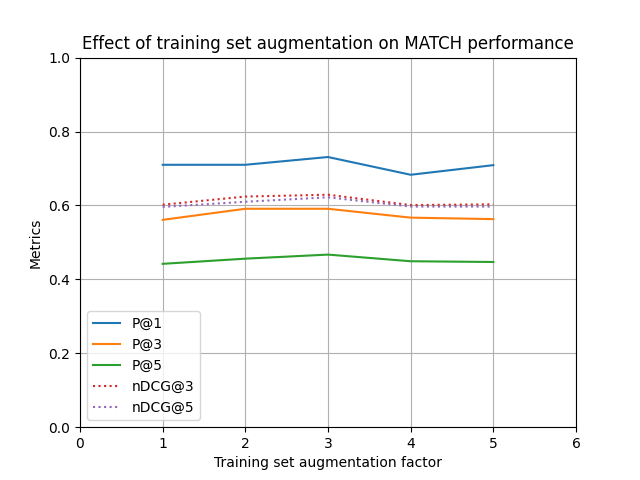
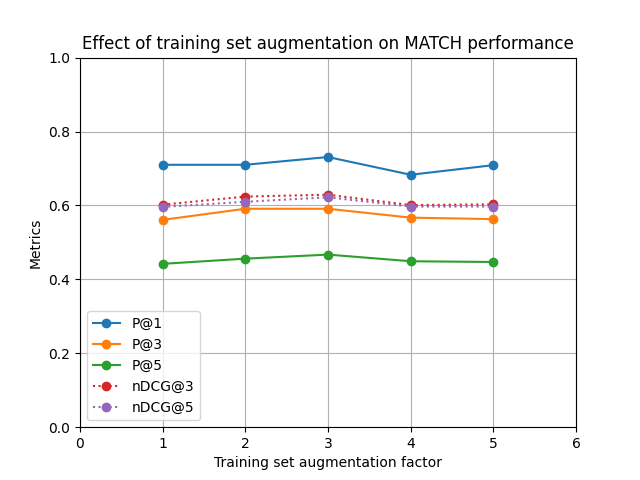
modify plots

diff --git a/auto-labeler/MATCH/analysis/perf_plots.py b/auto-labeler/MATCH/analysis/perf_plots.py
@@ -83,11 +83,11 @@ def main(results_path, plots_path, verbose):
 
     plt.grid()
     plt.title(f'Effect of training set size on MATCH performance')
-    plt.plot(size, p1, linestyle='-', label='P@1')
-    plt.plot(size, p3, linestyle='-', label='P@3')
-    plt.plot(size, p5, linestyle='-', label='P@5')
-    plt.plot(size, n3, linestyle=':', label='nDCG@3')
-    plt.plot(size, n5, linestyle=':', label='nDCG@5')
+    plt.plot(size, p1, linestyle='-', marker='o', label='P@1')
+    plt.plot(size, p3, linestyle='-', marker='o', label='P@3')
+    plt.plot(size, p5, linestyle='-', marker='o', label='P@5')
+    plt.plot(size, n3, linestyle=':', marker='o', label='nDCG@3')
+    plt.plot(size, n5, linestyle=':', marker='o', label='nDCG@5')
     plt.xlabel('Training set size')
     plt.xlim(0, 1004)
     plt.ylabel('Metrics')
@@ -115,11 +115,11 @@ def main(results_path, plots_path, verbose):
 
     plt.grid()
     plt.title(f'Effect of training batch size on MATCH performance')
-    plt.plot(size, p1, linestyle='-', label='P@1')
-    plt.plot(size, p3, linestyle='-', label='P@3')
-    plt.plot(size, p5, linestyle='-', label='P@5')
-    plt.plot(size, n3, linestyle=':', label='nDCG@3')
-    plt.plot(size, n5, linestyle=':', label='nDCG@5')
+    plt.plot(size, p1, linestyle='-', marker='o', label='P@1')
+    plt.plot(size, p3, linestyle='-', marker='o', label='P@3')
+    plt.plot(size, p5, linestyle='-', marker='o', label='P@5')
+    plt.plot(size, n3, linestyle=':', marker='o', label='nDCG@3')
+    plt.plot(size, n5, linestyle=':', marker='o', label='nDCG@5')
     plt.xlabel('Training batch size')
     plt.xlim(1, 1024)
     plt.xticks(size)
@@ -149,11 +149,11 @@ def main(results_path, plots_path, verbose):
 
     plt.grid()
     plt.title(f'Effect of training set augmentation on MATCH performance')
-    plt.plot(aug_factors, p1, linestyle='-', label='P@1')
-    plt.plot(aug_factors, p3, linestyle='-', label='P@3')
-    plt.plot(aug_factors, p5, linestyle='-', label='P@5')
-    plt.plot(aug_factors, n3, linestyle=':', label='nDCG@3')
-    plt.plot(aug_factors, n5, linestyle=':', label='nDCG@5')
+    plt.plot(aug_factors, p1, linestyle='-', marker='o', label='P@1')
+    plt.plot(aug_factors, p3, linestyle='-', marker='o', label='P@3')
+    plt.plot(aug_factors, p5, linestyle='-', marker='o', label='P@5')
+    plt.plot(aug_factors, n3, linestyle=':', marker='o', label='nDCG@3')
+    plt.plot(aug_factors, n5, linestyle=':', marker='o', label='nDCG@5')
     plt.xlabel('Training set augmentation factor')
     plt.xlim(0, 6)
     plt.ylabel('Metrics')
@@ -178,7 +178,7 @@ def main(results_path, plots_path, verbose):
 
     plt.grid(axis='y')
     plt.title(f'Effect of removing metadata separately on MATCH performance')
-    plt.bar(opts, p1, linestyle='-', label='P@1')  
+    plt.bar(opts, p1, label='P@1')  
     plt.xlabel('Train set options')
     plt.ylabel('Precision at top 1')
     plt.ylim(0, 1)
@@ -202,7 +202,7 @@ def main(results_path, plots_path, verbose):
 
     plt.grid(axis='y')
     plt.title(f'Effect of adding metadata separately on MATCH performance')
-    plt.bar(opts, p1, linestyle='-', label='P@1')  
+    plt.bar(opts, p1, label='P@1')  
     plt.xlabel('Train set options')
     plt.ylabel('Precision at top 1')
     plt.ylim(0, 1)
